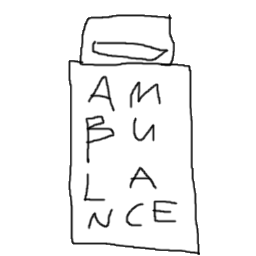
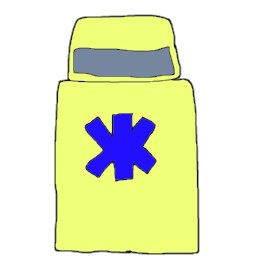
new sprites

diff --git a/Assets/Scripts/Player.cs b/Assets/Scripts/Player.cs
@@ -5,7 +5,7 @@ using UnityEngine;
 public class Player : MonoBehaviour
 {
     public Ambulance ambulance;
-    private Vector3 scale = new Vector3(0.5f, 0.5f, 1);
+    public Vector3 scale = new Vector3(0.5f, 0.5f, 1);
     private float speed = 5f;
     private Vector3 direction;
     private float ambulanceDistance = 0f;
@@ -41,14 +41,14 @@ public class Player : MonoBehaviour
         else
             Camera.main.transform.position = new Vector3(transform.position.x, transform.position.y, Camera.main.transform.position.z);
 
-        if (Input.GetKeyDown(KeyCode.E) && ambulanceDistance < 3f && !ambulance.entered)
+        if (Input.GetKeyDown(KeyCode.E) && ambulanceDistance < 1.2f && !ambulance.entered)
         {
             ambulance.entered = true;
         }
         else if (Input.GetKeyDown(KeyCode.E) && ambulance.entered)
         {
             ambulance.entered = false;
-            transform.position = ambulance.transform.position + -ambulance.transform.right * 2;
+            transform.position = ambulance.transform.position + -ambulance.transform.right;
         }
         if (ambulance.entered)
         {
@@ -61,6 +61,8 @@ public class Player : MonoBehaviour
 
     void Movement()
     {
+        if (!Input.anyKey) rb.velocity = Vector3.zero;
+
         foreach(KeyValuePair<KeyCode, Vector3> pair in directions)
         {
             if (Input.GetKeyDown(pair.Key)) direction += pair.Value;
